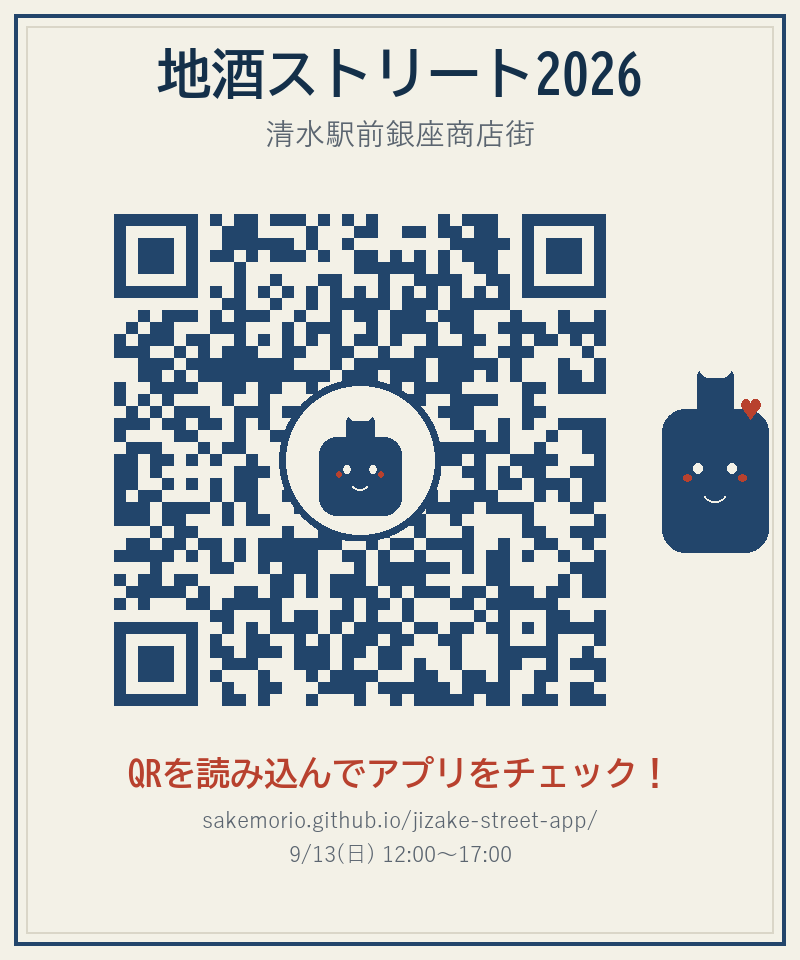
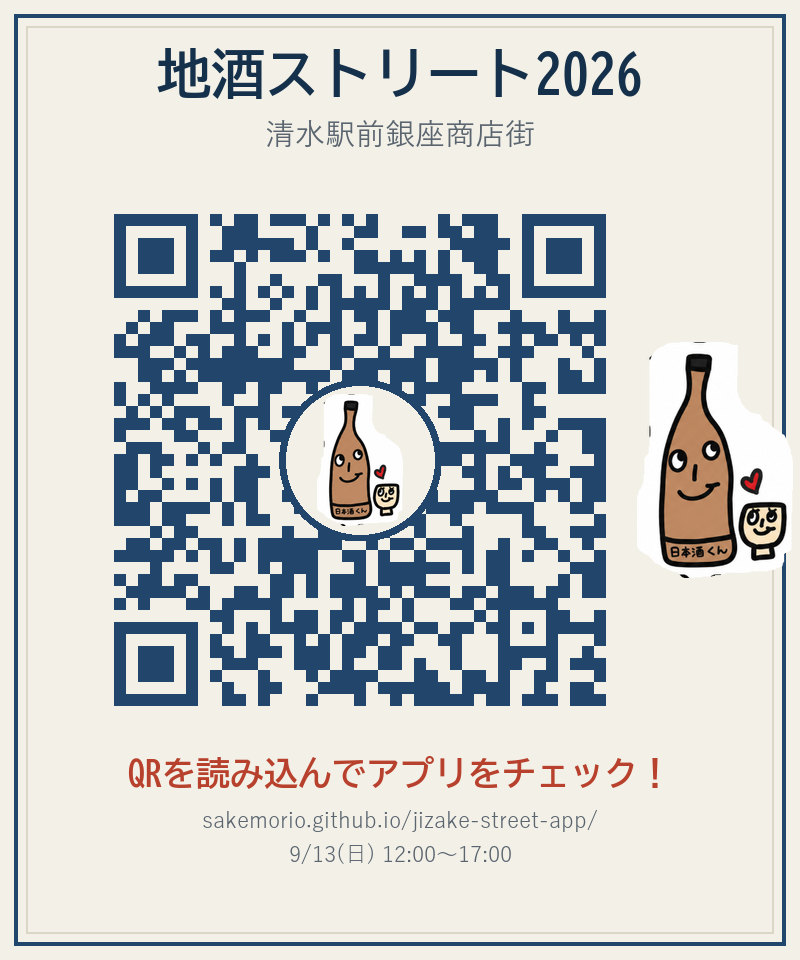
feat: QRカードに実際の「日本酒くん」キャラクターを使用
・オリジナル手描きキャラクターに差し替え（原画をそのまま使用）
・assets/character-source.png として保存（透過PNG）
・中央ロゴ・右側パネルともに原画を配置
・OpenCVでスキャン検証済み（縮小30%まで読み取り可）

Changed region(s): [[0.8125, 0.3438, 1.0, 0.5938], [0.375, 0.4062, 0.5, 0.5625]]

diff --git a/scripts/gen_qr.py b/scripts/gen_qr.py
@@ -6,8 +6,18 @@ import os
 OUT_DIR = os.path.join(os.path.dirname(__file__), "..", "assets")
 os.makedirs(OUT_DIR, exist_ok=True)
 OUT_PATH = os.path.join(OUT_DIR, "qr-card.png")
+CHAR_SRC = os.path.join(OUT_DIR, "character-source.png")
 
 URL = "https://sakemorio.github.io/jizake-street-app/"
+
+CHARACTER = Image.open(CHAR_SRC).convert("RGBA")
+
+def fit_character(max_w, max_h):
+    """character-source.png をアスペクト比を保ったまま max_w x max_h に収める（原画そのまま、描き直しなし）"""
+    w, h = CHARACTER.size
+    ratio = min(max_w / w, max_h / h)
+    new_size = (max(1, int(w * ratio)), max(1, int(h * ratio)))
+    return CHARACTER.resize(new_size, Image.LANCZOS)
 
 # ==== 配色（アプリ本体と統一） ====
 PAPER = (243, 241, 231, 255)
@@ -33,60 +43,15 @@ qr.make(fit=True)
 qr_img = qr.make_image(fill_color=INDIGO, back_color=PAPER).convert("RGBA")
 qr_size = qr_img.size[0]
 
-# ==== 2) QR中央に小さな「酒くん」ロゴを重ねる（円形の背景であまり大きくしない） ====
-def draw_bottle_face(draw, cx, cy, w, h, body_color=INDIGO, line_color=PAPER, blush=True, heart=False):
-    """オリジナルの「お酒くん」キャラクター（瓶＋顔）を描く。公式イラストの模写ではない独自デザイン。"""
-    neck_w = w * 0.34
-    neck_h = h * 0.22
-    body_top = cy - h / 2 + neck_h
-    body_bottom = cy + h / 2
-    body_left = cx - w / 2
-    body_right = cx + w / 2
-
-    # 首
-    draw.rounded_rectangle(
-        [cx - neck_w / 2, cy - h / 2, cx + neck_w / 2, body_top + h * 0.06],
-        radius=neck_w * 0.25, fill=body_color
-    )
-    # キャップ
-    cap_w = neck_w * 0.9
-    draw.rounded_rectangle(
-        [cx - cap_w / 2, cy - h / 2 - h * 0.07, cx + cap_w / 2, cy - h / 2 + h * 0.05],
-        radius=cap_w * 0.3, fill=line_color
-    )
-    # 本体
-    draw.rounded_rectangle(
-        [body_left, body_top, body_right, body_bottom],
-        radius=w * 0.22, fill=body_color
-    )
-    # 顔（目・口）
-    eye_r = w * 0.045
-    eye_y = body_top + (body_bottom - body_top) * 0.42
-    draw.ellipse([cx - w * 0.16 - eye_r, eye_y - eye_r, cx - w * 0.16 + eye_r, eye_y + eye_r], fill=line_color)
-    draw.ellipse([cx + w * 0.16 - eye_r, eye_y - eye_r, cx + w * 0.16 + eye_r, eye_y + eye_r], fill=line_color)
-    smile_w = w * 0.22
-    smile_y = eye_y + h * 0.12
-    draw.arc([cx - smile_w / 2, smile_y - smile_w / 4, cx + smile_w / 2, smile_y + smile_w / 2],
-              start=20, end=160, fill=line_color, width=max(2, int(w * 0.02)))
-    if blush:
-        blush_r = w * 0.035
-        blush_y = eye_y + h * 0.05
-        for sign in (-1, 1):
-            bx = cx + sign * w * 0.26
-            draw.ellipse([bx - blush_r, blush_y - blush_r, bx + blush_r, blush_y + blush_r], fill=HANKO)
-    if heart:
-        hr = w * 0.09
-        hx, hy = cx + w * 0.34, body_top - h * 0.02
-        draw.ellipse([hx - hr, hy - hr * 0.6, hx, hy + hr * 0.6], fill=HANKO)
-        draw.ellipse([hx, hy - hr * 0.6, hx + hr, hy + hr * 0.6], fill=HANKO)
-        draw.polygon([(hx - hr, hy + hr * 0.15), (hx + hr, hy + hr * 0.15), (hx, hy + hr * 1.5)], fill=HANKO)
-
-
+# ==== 2) QR中央に「日本酒くん」ロゴ（原画）を重ねる（円形の背景であまり大きくしない） ====
 logo_d = int(qr_size * 0.30)  # QR幅の30%の円（誤り訂正H=最大約30%まで復元可能なため十分安全なマージンを確保）
 logo_layer = Image.new("RGBA", (logo_d, logo_d), (0, 0, 0, 0))
 ld = ImageDraw.Draw(logo_layer)
 ld.ellipse([0, 0, logo_d, logo_d], fill=PAPER, outline=INDIGO, width=max(3, logo_d // 22))
-draw_bottle_face(ld, logo_d / 2, logo_d / 2 + logo_d * 0.03, logo_d * 0.5, logo_d * 0.62, blush=True, heart=False)
+logo_char = fit_character(int(logo_d * 0.82), int(logo_d * 0.82))
+lc_x = (logo_d - logo_char.width) // 2
+lc_y = (logo_d - logo_char.height) // 2
+logo_layer.alpha_composite(logo_char, (lc_x, lc_y))
 qr_img.alpha_composite(logo_layer, ((qr_size - logo_d) // 2, (qr_size - logo_d) // 2))
 
 # ==== 3) カード全体を組み立てる ====
@@ -118,13 +83,11 @@ qr_x = PAD
 qr_y = HEADER_H
 card.alpha_composite(qr_img, (qr_x, qr_y))
 
-# 大きい「お酒くん」キャラクターは右側の専用パネル内（QRとは重ならない）に縦centerで配置
-panel_cx = qr_x + qr_size + CHAR_PANEL_W / 2
-panel_cy = qr_y + qr_size / 2
-char_layer = Image.new("RGBA", (CHAR_PANEL_W, qr_size), (0, 0, 0, 0))
-cd = ImageDraw.Draw(char_layer)
-draw_bottle_face(cd, CHAR_PANEL_W / 2, qr_size / 2, CHAR_PANEL_W * 0.62, qr_size * 0.34, blush=True, heart=True)
-card.alpha_composite(char_layer, (qr_x + qr_size, qr_y))
+# 大きい「日本酒くん」（原画）は右側の専用パネル内（QRとは重ならない）に縦centerで配置
+big_char = fit_character(int(CHAR_PANEL_W * 0.92), int(qr_size * 0.55))
+bx = qr_x + qr_size + (CHAR_PANEL_W - big_char.width) // 2
+by = qr_y + (qr_size - big_char.height) // 2
+card.alpha_composite(big_char, (bx, by))
 
 # キャプション
 cap = "QRを読み込んでアプリをチェック！"
